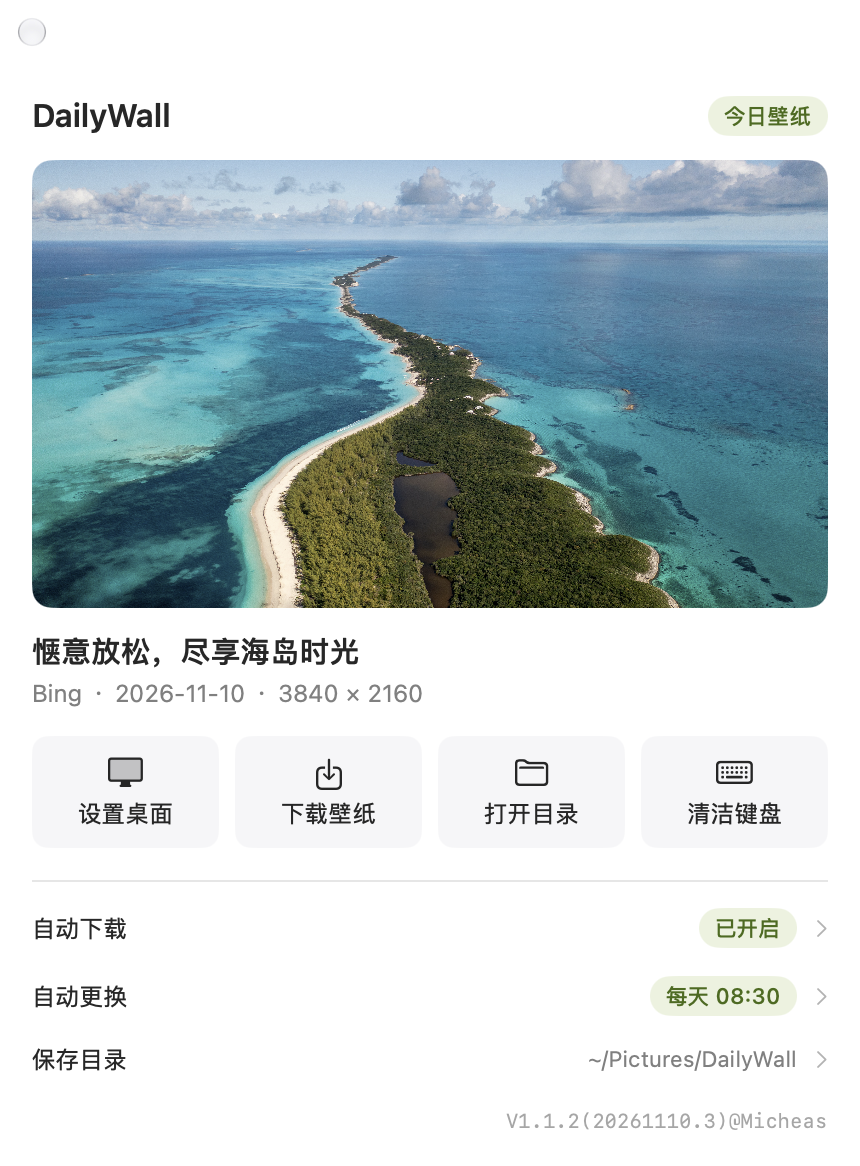
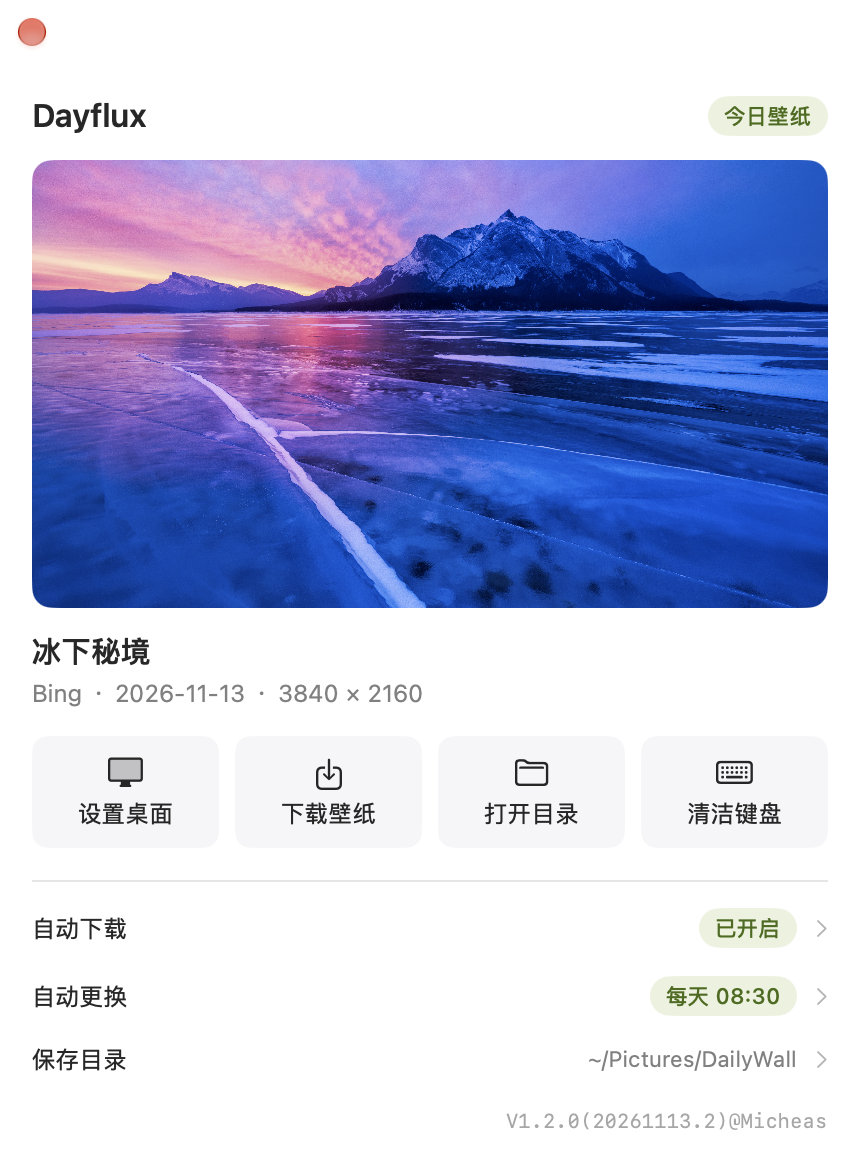
feat: 更名 Dayflux 并升级 1.2.0；设置面板改双栏一屏无滚动条

diff --git a/Sources/main.swift b/Sources/main.swift
@@ -90,7 +90,7 @@ final class AppDelegate: NSObject, NSApplicationDelegate, NSMenuDelegate, NSWind
                     if active { self?.startCleaning() } else { self?.stopCleaning() }
                 }
             }
-        // 调试入口：open build/DailyWall.app --args --show-settings
+        // 调试入口：open build/Dayflux.app --args --show-settings
         // 延迟到界面完成首次渲染后再触发 sheet，避免在 didFinishLaunching 里被吞掉。
         if CommandLine.arguments.contains("--show-settings") {
             dwStatusLog("调试参数生效：--show-settings")
@@ -110,11 +110,11 @@ final class AppDelegate: NSObject, NSApplicationDelegate, NSMenuDelegate, NSWind
         false
     }
 
-    /// 从 Dimble 启动器 / 启动台 / 访达再次打开时，直接显示主窗口，
+    /// 从启动台 / 访达再次打开时，直接显示主窗口，
     /// 不需要再从右键菜单里选「打开主窗口」。
     func applicationShouldHandleReopen(_ sender: NSApplication,
                                        hasVisibleWindows flag: Bool) -> Bool {
-        dwStatusLog("收到重新打开请求（启动器/访达双击）→ 显示主窗口")
+        dwStatusLog("收到重新打开请求（启动台/访达双击）→ 显示主窗口")
         showWindow()
         return true
     }
@@ -130,7 +130,7 @@ final class AppDelegate: NSObject, NSApplicationDelegate, NSMenuDelegate, NSWind
             backing: .buffered, defer: false
         )
         window.contentViewController = hosting
-        window.title = "DailyWall"
+        window.title = "Dayflux"
         window.titlebarAppearsTransparent = true
         window.titleVisibility = .hidden
         window.isReleasedWhenClosed = false
@@ -149,7 +149,7 @@ final class AppDelegate: NSObject, NSApplicationDelegate, NSMenuDelegate, NSWind
 
     private func showWindow() {
         dwStatusLog("showWindow 调出主窗口")
-        // 懒创建：启动时不建窗口，首次点图标（Dimble/菜单栏）时才创建。
+        // 懒创建：启动时不建窗口，首次点菜单栏图标时才创建。
         if window == nil { buildWindow() }
         state.notifyWindowVisibility(true)
         state.ensurePreviewLoadedIfNeeded()
@@ -200,7 +200,7 @@ final class AppDelegate: NSObject, NSApplicationDelegate, NSMenuDelegate, NSWind
         guard AXIsProcessTrusted() else {
             promptAccessibility()
             state.cleaningMode = false
-            state.setMessage("全局禁用键盘需要「辅助功能」权限：请到 系统设置 → 隐私与安全性 → 辅助功能，勾选 DailyWall，然后再点一次「清洁键盘」。", isError: true)
+            state.setMessage("全局禁用键盘需要「辅助功能」权限：请到 系统设置 → 隐私与安全性 → 辅助功能，勾选 Dayflux，然后再点一次「清洁键盘」。", isError: true)
             return
         }
 
@@ -230,7 +230,7 @@ final class AppDelegate: NSObject, NSApplicationDelegate, NSMenuDelegate, NSWind
                                           callback: callback,
                                           userInfo: nil) else {
             state.cleaningMode = false
-            state.setMessage("键盘拦截创建失败：请在「辅助功能」中授权 DailyWall，退出重开应用后再试。", isError: true)
+            state.setMessage("键盘拦截创建失败：请在「辅助功能」中授权 Dayflux，退出重开应用后再试。", isError: true)
             return
         }
 
@@ -304,7 +304,7 @@ final class AppDelegate: NSObject, NSApplicationDelegate, NSMenuDelegate, NSWind
         }
         button.image = makeMenuBarIcon()
         button.imagePosition = .imageOnly
-        button.toolTip = "DailyWall · 左键打开主窗口，右键打开菜单"
+        button.toolTip = "Dayflux · 左键打开主窗口，右键打开菜单"
 
         let menu = NSMenu()
         menu.delegate = self
@@ -329,7 +329,7 @@ final class AppDelegate: NSObject, NSApplicationDelegate, NSMenuDelegate, NSWind
             self?.state.showingSettings = true
         }
         menu.addItem(.separator())
-        add(menu, "退出 DailyWall") { NSApp.terminate(nil) }
+        add(menu, "退出 Dayflux") { NSApp.terminate(nil) }
 
         // 不设置 statusItem.menu，由按钮 action 区分左右键。
         let action = StatusBarAction { [weak self] target, wantsMenu in

diff --git a/Sources/Views.swift b/Sources/Views.swift
@@ -130,7 +130,7 @@ struct ContentView: View {
     var body: some View {
         VStack(alignment: .leading, spacing: 0) {
             HStack {
-                Text("DailyWall")
+                Text("Dayflux")
                     .font(.system(size: 16, weight: .semibold))
                     .accessibilityAddTraits(.isHeader)
                 Spacer()
@@ -353,10 +353,11 @@ struct SettingsView: View {
 
             Divider()
 
-            ScrollView(.vertical) {
-                VStack(alignment: .leading, spacing: 12) {
+            // 双栏平铺：6 个分组左右各 3 个，去掉滚动条，一屏完整显示。
+            HStack(alignment: .top, spacing: 12) {
+                VStack(alignment: .leading, spacing: 10) {
                     section("菜单栏",
-                            help: "左键点菜单栏图标打开主窗口，右键打开菜单。关闭图标后，可用 Dimble 启动器或在访达双击应用打开。") {
+                            help: "左键点菜单栏图标打开主窗口，右键打开菜单。关闭图标后，可在访达双击应用或从启动台打开。") {
                         Toggle("显示菜单栏图标", isOn: $settings.showMenuBarIcon)
                     }
 
@@ -384,7 +385,10 @@ struct SettingsView: View {
                             Button("更改…") { state.changeDirectory() }
                         }
                     }
+                }
+                .frame(maxWidth: .infinity, alignment: .top)
 
+                VStack(alignment: .leading, spacing: 10) {
                     section("自动化",
                             help: "应用常驻时每分钟检查一次，到点自动执行；关机或睡眠后恢复时按当天补一次，不追溯多日。若任务失败，5 分钟后自动重试，直到当天成功。") {
                         Toggle("每天定时更换桌面", isOn: $settings.autoChange)
@@ -429,12 +433,12 @@ struct SettingsView: View {
                         }
                     }
                 }
-                .padding(16)
-                .frame(width: 430)
+                .frame(maxWidth: .infinity, alignment: .top)
             }
+            .padding(16)
         }
-        .frame(width: 430)
-        .frame(maxHeight: 620)
+        .frame(width: 720)
+        .fixedSize(horizontal: false, vertical: true)
         .onExitCommand { dismiss() }
     }
 
@@ -453,5 +457,6 @@ struct SettingsView: View {
             }
             .frame(maxWidth: .infinity)
         }
+        .frame(maxWidth: .infinity, alignment: .leading)
     }
 }

diff --git a/Sources/AppState.swift b/Sources/AppState.swift
@@ -143,7 +143,7 @@ final class AppState: ObservableObject {
                 setMessage("当天壁纸已存在，按规则跳过：\(url.lastPathComponent)", isError: false)
             case .saved(let url, _, _, _), .overwritten(let url, _, _, _):
                 setMessage("已保存 \(url.lastPathComponent)", isError: false)
-                NotificationService.shared.send(title: "DailyWall", body: "今日壁纸已下载")
+                NotificationService.shared.send(title: "Dayflux", body: "今日壁纸已下载")
             }
             return true
         } catch {
@@ -193,7 +193,7 @@ final class AppState: ObservableObject {
             }
             try await DesktopService.shared.apply(target)
             setMessage("已设置桌面（所有已连接显示器）", isError: false)
-            NotificationService.shared.send(title: "DailyWall", body: "桌面壁纸已更新")
+            NotificationService.shared.send(title: "Dayflux", body: "桌面壁纸已更新")
             return true
         } catch {
             // 桌面设置失败不删除已下载文件（规格 4.3）。

diff --git a/Sources/Services.swift b/Sources/Services.swift
@@ -298,7 +298,7 @@ final class StorageService {
         panel.canCreateDirectories = true
         panel.allowsMultipleSelection = false
         panel.prompt = "选择"
-        panel.message = "选择 DailyWall 保存壁纸的目录（应用不会删除其中的文件）"
+        panel.message = "选择 Dayflux 保存壁纸的目录（应用不会删除其中的文件）"
         guard panel.runModal() == .OK, let url = panel.url else { return nil }
         WallpaperSettings.shared.directoryPath = url.path
         return url

diff --git a/tools/make_icons.swift b/tools/make_icons.swift
@@ -2,7 +2,7 @@ import AppKit
 import CoreGraphics
 import Foundation
 
-// DailyWall App 图标：黄昏湖景 + 日轮 + 倒影，纯矢量绘制，输出标准 iconset。
+// Dayflux App 图标：黄昏湖景 + 日轮 + 倒影，纯矢量绘制，输出标准 iconset。
 // 用法：cp tools/make_icons.swift /tmp/dw_iconbuild/main.swift
 //       swiftc -O -swift-version 5 /tmp/dw_iconbuild/main.swift -o /tmp/make_icons
 //       /tmp/make_icons <输出目录>

diff --git a/tools/smoke/Smoke.swift b/tools/smoke/Smoke.swift
@@ -12,7 +12,7 @@ struct Smoke {
             if !condition { failures += 1 }
         }
 
-        print("=== DailyWall M1 冒烟测试（无 GUI）===\n")
+        print("=== Dayflux M1 冒烟测试（无 GUI）===\n")
         let tempDir = URL(fileURLWithPath: NSTemporaryDirectory())
             .appendingPathComponent("dw_smoke_out", isDirectory: true)
         try? FileManager.default.createDirectory(at: tempDir, withIntermediateDirectories: true)

diff --git a/tools/verify_bing.py b/tools/verify_bing.py
@@ -1,5 +1,5 @@
 #!/usr/bin/env python3
-"""DailyWall M0 接口核验脚本。
+"""Dayflux M0 接口核验脚本。
 
 对应《DailyWall 软件开发需求规格说明书》附录 A 第 1/2/3 项与 7.2 节。
 
@@ -91,7 +91,7 @@ def main():
     args = ap.parse_args()
 
     now = datetime.now(BEIJING)
-    print("=== DailyWall M0 接口核验 ===")
+    print("=== Dayflux M0 接口核验 ===")
     print(f"验证时间: {now.isoformat()}  出口: 本机网络  超时: {args.timeout}s")
     print("性质: 单次快照，不构成稳定契约\n")
 

diff --git a/README.md b/README.md
@@ -1,10 +1,12 @@
-# DailyWall（自用版 1.1.2）
+# Dayflux（自用版 1.2.0）
+
+> **Dayflux — Fresh wallpaper, every day.**
 
 **完全自用，不公开发布。** macOS 菜单栏应用，获取 Bing 每日壁纸、保存到自选目录、设为桌面。
 
 ## 主界面
 
-![DailyWall 主界面（2026-11-10 实机截图）](tools/main-window.png)
+![Dayflux 主界面（2026-11-13 实机截图）](tools/main-window.png)
 
 > 预览区为当日 Bing 壁纸实图；四个按钮依次为 设置桌面 / 下载壁纸 / 打开目录 / 清洁键盘。窗口右下角页脚是版本号、构建日期与当天编译序号、作者署名。此截图仅用于本仓库的界面说明，不对外分发。
 
@@ -15,15 +17,15 @@
 
   ```bash
   ./build.sh
-  open build/DailyWall.app
+  open build/Dayflux.app
   ```
 
   脚本用 `swiftc` 编译 `Sources/*.swift`，组装 `.app`，`plutil -lint` 校验，最后用 `signing/` 下的自签证书签名并做严格校验。产物不带 `com.apple.quarantine`。需要临时回退到 ad-hoc 签名时：`DW_SIGN_MODE=adhoc ./build.sh`。
-- 产物位置：`build/DailyWall.app`。重复构建只覆盖该 bundle，不触碰其它目录。
+- 产物位置：`build/Dayflux.app`。重复构建只覆盖该 bundle，不触碰其它目录。
 
 ## 版本号与构建序号
 
-- 主界面右下角显示版本、构建信息与作者署名，例如 `V1.1.2(20261110.2)@Micheas` 表示：软件版本 1.1.2，2026-11-10 当天第 2 次成功编译，作者 @Micheas。
+- 主界面右下角显示版本、构建信息与作者署名，例如 `V1.2.0(20261113.2)@Micheas` 表示：软件版本 1.2.0，2026-11-13 当天第 2 次成功编译，作者 @Micheas。
 - 版本号在 `build.sh` 顶部 `APP_VERSION`、署名在 `AUTHOR_TAG` 各一处维护；每次 `./build.sh` **成功**后按当天日期自动累加序号，跨天归 1，构建失败不计数（下次仍用同一号）。
 - 序号存本机 `.buildcounter`（不入库，换机从 1 开始）；`build/generated/BuildInfo.swift` 由脚本生成，界面页脚与 `Info.plist` 的 `CFBundleShortVersionString` / `CFBundleVersion` 使用同一份值。
 
@@ -37,8 +39,8 @@
 
 ## 已安装与交付
 
-- **已安装**：`/Applications/DailyWall.app`（系统级「应用程序」目录，自签版，2026-11-10 13:20 从 `~/Applications` 迁移至此并重启；LaunchServices 已重新注册 `local.dailywall.selfuse` → 新路径），可在访达「应用程序」或启动台直接双击。
-- **可拷走的交付包**：`DailyWall.zip`（约 1.2 MB，含程序图标）。用 `ditto -c -k --sequesterRsrc --keepParent` 打包；已验证解压后 `codesign -v` 通过、`Authority=DailyWall Self-Use Code Signing`、无 `com.apple.quarantine`。
+- **已安装**：`/Applications/Dayflux.app`（系统级「应用程序」目录，自签版；2026-11-13 由 `DailyWall.app` 更名并重新安装，旧包已移除）。更名只改显示名与 bundle 文件名，**bundle id 仍为 `local.dailywall.selfuse`、自签证书未换**，因此偏好、当天完成标记与「辅助功能」授权全部保留。可在访达「应用程序」或启动台直接双击。
+- **可拷走的交付包**：`Dayflux.zip`（约 1.2 MB，含程序图标）。用 `ditto -c -k --sequesterRsrc --keepParent` 打包；已验证解压后 `codesign -v` 通过、`Authority=DailyWall Self-Use Code Signing`、无 `com.apple.quarantine`。
 - 自签版实机启动已验证：元数据 866 B + UHD 图 3,556,980 B 拉取成功、主窗口 430×560 正常、偏好与 `lastRunDate` 未变、`open -b` 重新打开入口正常唤出主窗口。
 - 替换前的 ad-hoc 版本备份在 `/tmp/DailyWall-adhoc-backup.app`（临时目录，重启后可能被系统清理）；长期回退路径是源码 + `DW_SIGN_MODE=adhoc`。
 - **窗口行为**：主窗口仅保留「关闭」按钮（无最小化 / 缩放）；从菜单栏图标打开时，窗口出现在鼠标光标附近（光标下方、水平居中并约束在所在屏幕可见区域内，不再固定屏幕中央）。
@@ -78,16 +80,16 @@
 | 打开目录 | 在 Finder 中显示成品文件（不存在则显示目录） |
 | 三行设置 | 点击打开设置面板 |
 
-设置面板分组：**菜单栏**（置顶，含「显示菜单栏图标」开关）、来源与清晰度、下载与保存、自动化、通知与启动、隐私与缓存。
+设置面板为**左右双栏**布局（2026-11-13 改）：左栏「菜单栏」（含「显示菜单栏图标」开关）、来源与清晰度、下载与保存；右栏「自动化」、通知与启动、隐私与缓存。6 个分组一屏完整显示，**无滚动条**，窗口尺寸 720×357。
 
-- **「完成」按钮固定在顶部**：不随内容滚动，任何位置都能直接关闭设置面板；也支持 Esc 关闭。
+- **「完成」按钮固定在顶部**：面板无滚动区域，按钮始终可见；也支持 Esc 关闭。
 - **说明改为问号气泡**（2026-11-10）：每个分组标题后有一个圆形 `?` 图标，点击弹出白色圆角气泡说明（参照 AlDente 样式，箭头指向图标）；界面不再常驻灰色小字，视觉更简洁。再点图标或点别处即可收起。
 
 ## 菜单栏交互
 
 | 操作 | 结果 |
 |---|---|
-| 左键点击 DailyWall 菜单栏图标 | **直接显示主窗口**，不弹菜单、不用在菜单项里选 |
+| 左键点击 Dayflux 菜单栏图标 | **直接显示主窗口**，不弹菜单、不用在菜单项里选 |
 | 右键点击（或 Control + 左键） | 弹出菜单：打开主窗口、今日标题、立即下载、立即设置桌面、设置…、退出 |
 | 从启动台 / 访达双击打开 | 直接显示主窗口（`applicationShouldHandleReopen` 无条件 `showWindow()`） |
 
@@ -152,9 +154,9 @@
   env -u HTTP_PROXY -u HTTPS_PROXY -u http_proxy -u https_proxy /tmp/dw_netprobe
   ```
 
-- 界面截图：**`tools/main-window.png`（当前主界面，含版本页脚与「清洁键盘」按钮，已入库供本文档展示）**、`tools/preview_final.png`（早期主窗口，真实 Bing 当日图）、`tools/settings_v3.png`（新版设置面板：顶部完成按钮 + 问号图标，无常驻小字）、`tools/settings_help_popover.png`（点击问号弹出的说明气泡）、`tools/settings_menubar_toggle.png`（含「菜单栏」分组的旧版设置面板）。
-- 调试入口：`open build/DailyWall.app --args --show-settings`。注意在部分启动方式下 `open` 不把参数传给进程（2026-11-10 实测发生过，日志里的启动参数可核对），此时从主窗口任意一行设置点进设置面板即可。
-- 设置面板用 `HelpButton`（`questionmark.circle` + `.popover`）承载分组说明；纯 Command Line Tools 下 SwiftUI 的 `@State` 宏插件不可用，弹窗状态改用 `ObservableObject` + `@StateObject`。外层 `ScrollView` 只在内容超高时滚动，顶部完成按钮始终固定。
+- 界面截图：**`tools/main-window.png`（当前主界面，含版本页脚与「清洁键盘」按钮，已入库供本文档展示）**、`tools/preview_final.png`（早期主窗口，真实 Bing 当日图）、`tools/settings_v3.png`（旧版单栏设置面板：顶部完成按钮 + 问号图标，无常驻小字）、`tools/settings_help_popover.png`（点击问号弹出的说明气泡）、`tools/settings_menubar_toggle.png`（含「菜单栏」分组的旧版设置面板）。
+- 调试入口：`open build/Dayflux.app --args --show-settings`。注意在部分启动方式下 `open` 不把参数传给进程（2026-11-10、11-13 均实测发生过，日志里的启动参数可核对）；此时直接运行 `build/Dayflux.app/Contents/MacOS/Dayflux --show-settings` 可确保参数生效，或从主窗口任意一行设置点进设置面板。
+- 设置面板用 `HelpButton`（`questionmark.circle` + `.popover`）承载分组说明；纯 Command Line Tools 下 SwiftUI 的 `@State` 宏插件不可用，弹窗状态改用 `ObservableObject` + `@StateObject`。2026-11-13 起**移除 `ScrollView`**，改为左右双栏 + `.fixedSize(vertical: true)`，视图理想高度 720×357，一屏完整显示；顶部「完成」按钮始终可见。
 
 ## 与规格书的差异（自用定位下的裁剪）
 
@@ -166,13 +168,14 @@
 
 ## 仓库与备份（2026-11-10）
 
-- 私有仓库：`https://github.com/kingdocs/DailyWall`（账号 `kingdocs`，**private**），用途仅为工程与代码备份，不公开发布。
+- 私有仓库：`https://github.com/kingdocs/dayflux`（账号 `kingdocs`，**private**），用途仅为工程与代码备份，不公开发布。旧名 `kingdocs/DailyWall` 由 GitHub 自动重定向。
+- **更名（2026-11-13）**：项目由 `DailyWall` 正式更名为 **Dayflux**，slogan 为 `Dayflux — Fresh wallpaper, every day.`；仓库 `kingdocs/DailyWall` → `kingdocs/dayflux`，工程目录 `DailyWall/` → `dayflux/`，应用 `DailyWall.app` → `Dayflux.app`，界面与文档品牌名统一为 Dayflux，版本升至 1.2.0。**内部标识一律保持不变**：bundle id `local.dailywall.selfuse`、`dw.*` 偏好键、壁纸文件名前缀 `DailyWall_`、缓存目录 `~/Library/Caches/DailyWall`、默认保存目录 `~/Pictures/DailyWall`、自签证书 CN `DailyWall Self-Use Code Signing`。理由：改 bundle id 会丢偏好与 TCC 授权，改证书 CN 等于换签名身份，改数据路径会让已有壁纸目录分裂。
 - **入库范围**：Swift 源码、`build.sh` / `Info.plist`、自签脚本与公钥证书、M0 核验工具与记录、图标源资产（`AppIcon.iconset` / `AppIcon.icns`）。
 - **未入库**（见 `.gitignore`）：
   - `signing/dailywall-selfsigned.p12`（私钥）与 `signing/.p12-password`（密码）—— 换机需自行补回，否则构建会报缺少密码；可用 `signing/create_selfsigned.sh` 重新生成（等于换身份）。
-  - `build/`、`DailyWall.zip`、`*.app`（构建产物，可重建）。
+  - `build/`、`Dayflux.zip`、`*.app`（构建产物，可重建）。
   - `tools/` 下**历史**界面截图与 `preview_sample.jpg`（仅本机留存，不入库）；唯一例外是 `tools/main-window.png`，即本文档「主界面」一节用到的实机截图。Bing 每日壁纸为微软免费开放内容，此处仅作自用界面说明；仍不打包进发行物、不商用、不对外分发。
-- 仓库以 `DailyWall/` 为根，工作区上层的 `.workbuddy/`（会话与记忆文件）不在仓库内。
+- 仓库以 `dayflux/` 为根，工作区上层的 `.workbuddy/`（会话与记忆文件）不在仓库内。
 - 克隆到新机后：`./build.sh` 即可构建。若要沿用同一张自签证书，先补回 p12 与密码文件；否则用 `DW_SIGN_MODE=adhoc ./build.sh` 走 ad-hoc 签名。
 
 ## 复核

diff --git a/signing/README.md b/signing/README.md
@@ -1,4 +1,4 @@
-# DailyWall 自签代码签名证书（已启用）
+# Dayflux 自签代码签名证书（已启用）
 
 生成：2026-11-10 10:25｜**启用：2026-11-10 10:34（老板确认）**｜状态：`build.sh` 默认改用本证书签名，安装版与交付 zip 均已重签并实机复验。全程未导入登录钥匙串、未改动系统信任设置。
 
@@ -55,7 +55,7 @@
 1. `build.sh` 的默认签名分支改为调用 `sign_app.sh`，保留 `DW_SIGN_MODE=adhoc` 回退开关。
 2. 完整重建 → 冒烟 20/20 → 连续重建两次确认 DR 与 cdhash 不变。
 3. 温和退出旧进程（PID 57333）→ 旧安装版移到 `/tmp/DailyWall-adhoc-backup.app` → `ditto` 安装自签版 → `open` 启动。
-4. 重打包 `DailyWall.zip`，解压回验签名、图标、无 quarantine。
+4. 重打包 `Dayflux.zip`，解压回验签名、图标、无 quarantine。
 
 ## 七、启用后的实机验证（10:34—10:36）
 
@@ -67,7 +67,7 @@
 | 实机启动 | 新进程 64112；元数据 866 B + UHD 3,556,980 B 成功；主窗口 430×560 在屏 |
 | 偏好设置 | `autoDownload/autoChange=1`、`lastRunDate=20261110`、`showMenuBarIcon=0`，一项未改 |
 | 重新打开入口 | `open -b local.dailywall.selfuse` → 日志「收到重新打开请求 → 显示主窗口」 |
-| 交付包 | `DailyWall.zip` 1.2 MB，解压回验签名、图标、无 quarantine 均通过 |
+| 交付包 | `Dayflux.zip` 1.2 MB，解压回验签名、图标、无 quarantine 均通过 |
 
 **遗留边界（未变）**：`TeamIdentifier=not set`、`spctl -a` 仍 rejected、无 Apple 签发链、无法公证。属签名机制本身的限制，本机无解。
 

diff --git a/M0_接口核验记录.md b/M0_接口核验记录.md
@@ -1,4 +1,4 @@
-# DailyWall M0 接口核验记录
+# Dayflux M0 接口核验记录
 
 **项目定位（2026-11-09 老板确认）：完全自用，不公开发布。**
 **记录性质：单次快照核验，不构成稳定契约。本记录不对未经验证事项作保证。**
